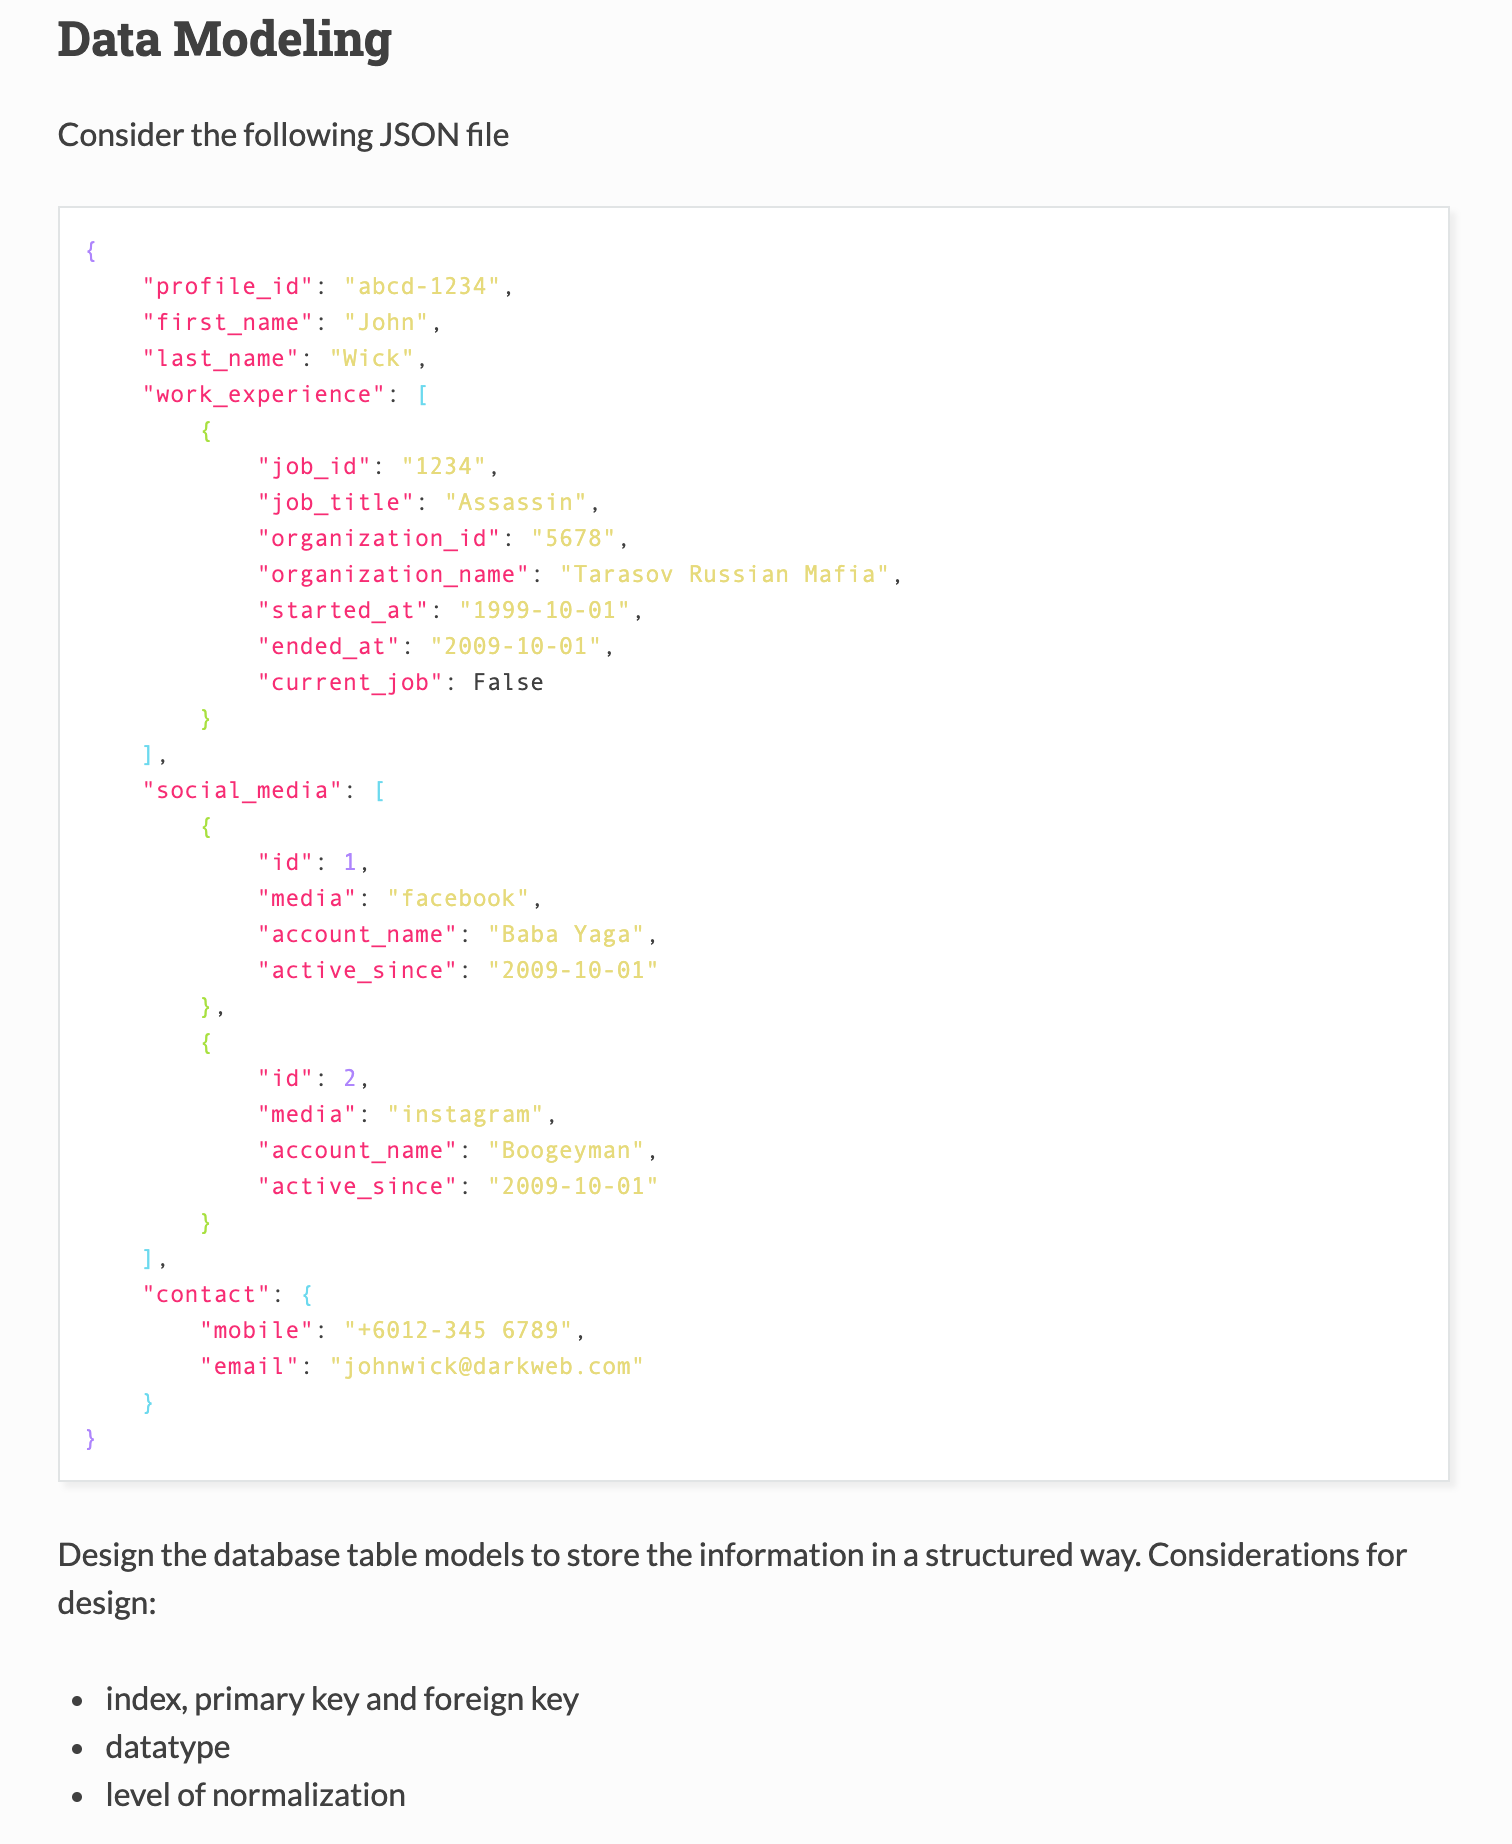
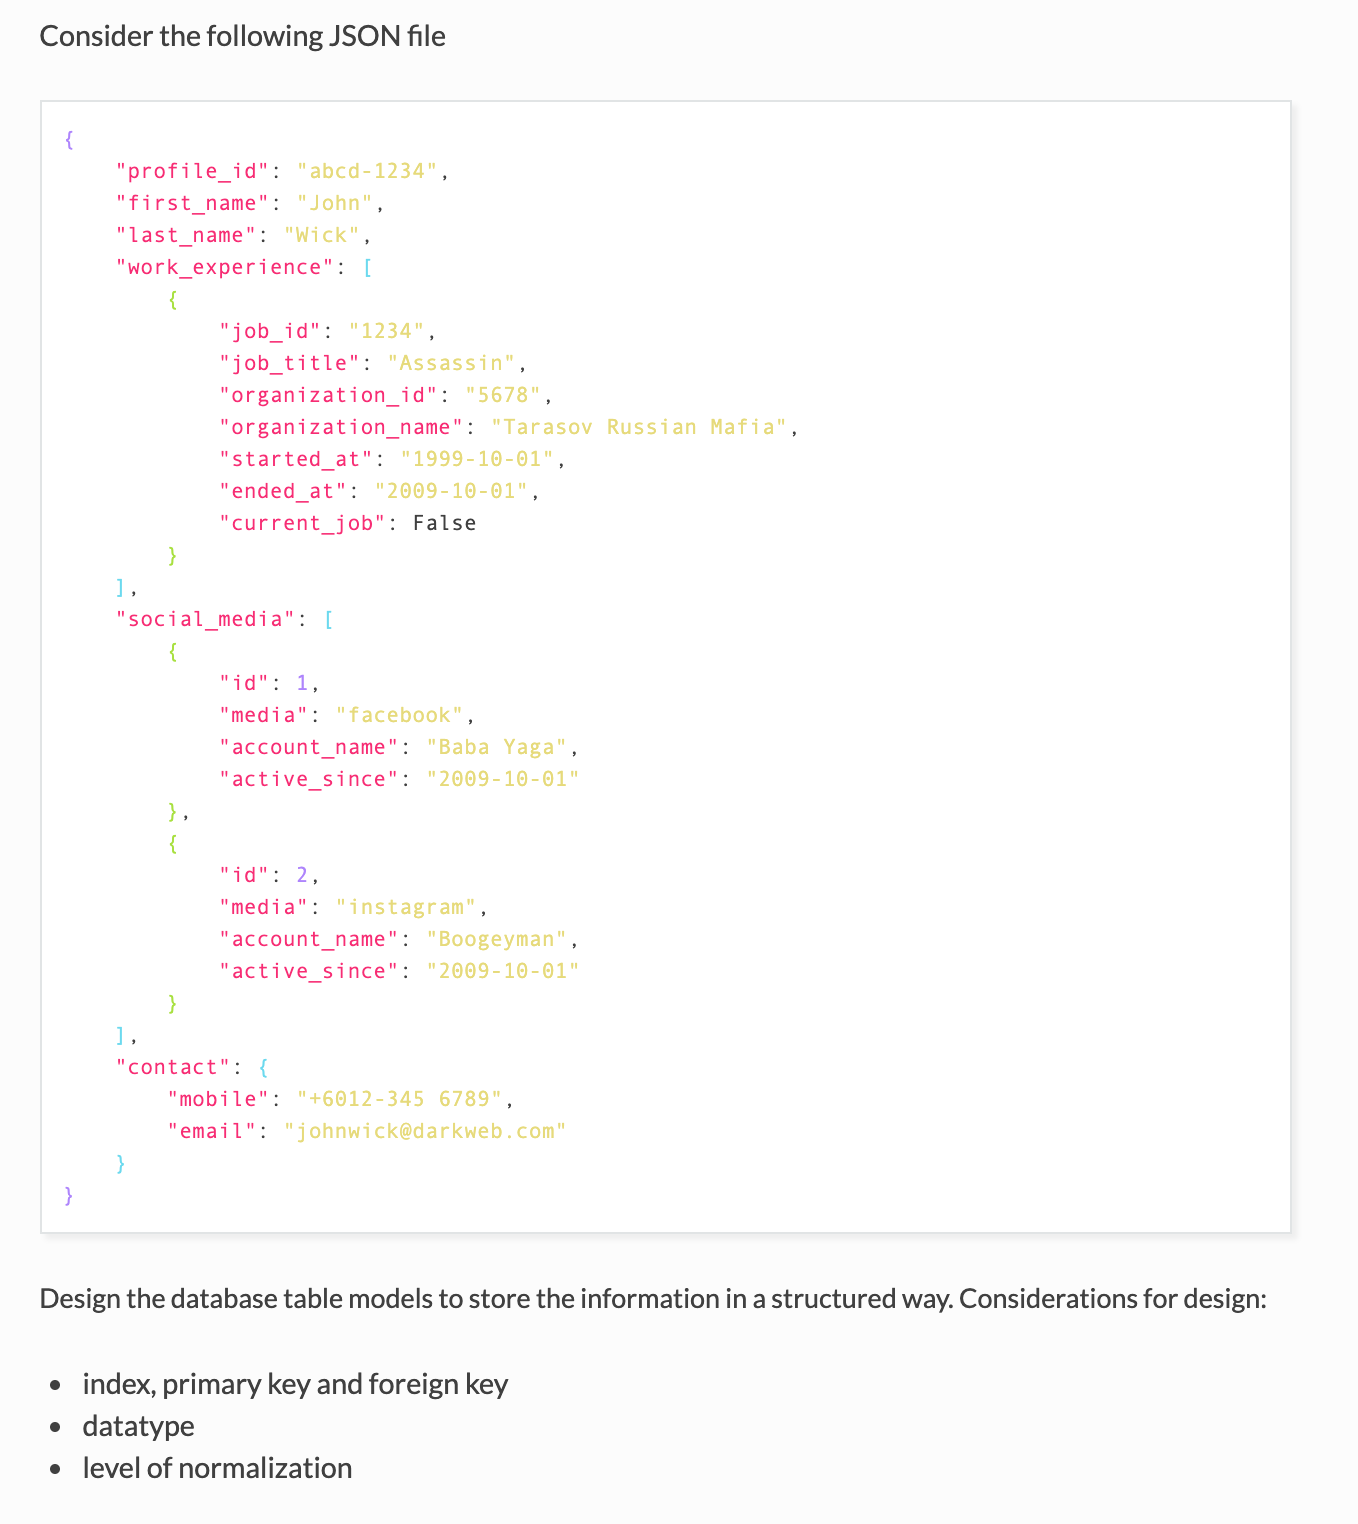
adds docs for data-modeling

diff --git a/docs/data_modeling.md b/docs/data_modeling.md
@@ -1,2 +1,50 @@
 # Data Modeling #
+---
+## [< All Solutions](https://github.com/naeemark/assessment-pulsifi) ##
+---
 
+### Problem Statement:
+![Problem](../screenshots/data_modeling.png)
+---
+
+## Attempt ##
+
+### Entity Relationship Diagram ###
+![Problem](../screenshots/erd_data_modeling.png)
+
+### Solution ###
+- The solution is designed by doing following steps:
+
+#### **1 - Identify the Entities** ####
+- As we can not ignore the needs of known entities before designing a schema for a system. It is important to identify the possible entities.
+- By analyzing the provided `json` data, I can easily identify the following entities;
+  - **profile** - attributes: [`profile_id, first_name, last_name`]
+  - **contact** - attributes: [`mobile, email`]
+  - **work-experience** - attributes: [`job_id, job_title, organization_id, organization_name, started_at, ended_at, current_job`]
+  - **social_media** - attributes: [`id, media, account_name, active_since`]
+
+#### **2 - Identify the relationships between Entities** ####
+- In the provided sample, following relationships are identified between the entities;
+  - **profile** *has* **contact** - Its gonna be a `one-to-one` relation; i.e The `profile` can be associated to one contact and vice-versa (According to the provided `json`)
+  - **profile** *has* **work-experience** - Its gonna be a `one-to-many` relation; i.e The `profile` can have either multiple or single `work-experience`.  Its a single directional relation, `work-experience` record is dependent on the existence of profile. More, there could be a possibility that a `profile` does not keep any `work-experience`
+  - **profile** *has* **social_media** - Each record in `social_media` table indicates a social media account. Again, Its gonna be a `one-to-many` relation; i.e The `profile` can have either multiple or single `social_media` account. But `social_media` can be associated with `one and only one` profile. There could be a possibility that a `profile` does not keep any `social_media` account.
+
+#### **3 - Finalize the Attributes of Entities** ####
+ - **profile** - attributes: [`profile_id, first_name, last_name`], PK: `profile_id`
+ - **contact** - attributes: [`mobile, email`], PK: `contact_id`, FK: `profile_id`
+ - **social_media** - attributes: [`id, media, account_name, active_since`], PK: `id`, FK: `profile_id`
+ - **work-experience** - attributes: [`job_id, job_title, organization_id, organization_name, started_at, ended_at, current_job`], PK: `id`, FK: `profile_id`
+
+ *An additional attribute is added in `contact` as PK to achieve default indexing. Its not required by the design though*
+ 
+ *Data types as shown in the Entity Relationship Diagram*
+
+#### **4 - Normalization** ####
+- Such systems are normalized upto 3-NF to maintain a balance between data redundancy and inconsistency.
+- In our example there is not `many-to-many` relation found. So we don't need to create some reference tables to resolve `many-to-many` into `one-to-many` relationship.
+- No fields are redundant in any table except the Foreign-Keys. So, there is no need to decompose any table further. 
+
+
+
+### SQL Schema ###
+- Query: [schema_data_modeling.sql](../data_modeling/schema_data_modeling.sql)
